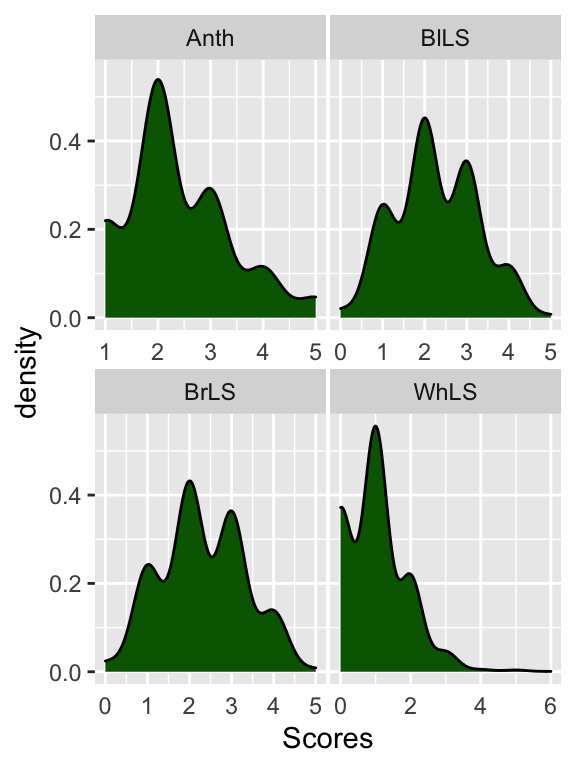
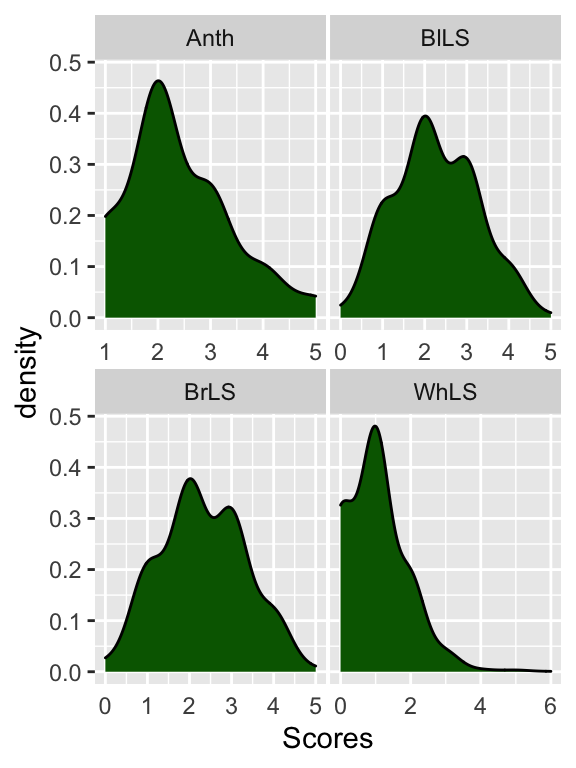
Fix the adjust for the descritive graphs

diff --git a/docs/AnalisesDescritivas.html b/docs/AnalisesDescritivas.html
@@ -15,7 +15,7 @@
 
 <title>Analises Descritivas</title>
 
-<script src="site_libs/header-attrs-2.13/header-attrs.js"></script>
+<script src="site_libs/header-attrs-2.14/header-attrs.js"></script>
 <script src="site_libs/jquery-3.6.0/jquery-3.6.0.min.js"></script>
 <meta name="viewport" content="width=device-width, initial-scale=1" />
 <link href="site_libs/bootstrap-3.3.5/css/cosmo.min.css" rel="stylesheet" />
@@ -402,7 +402,7 @@ div.tocify {
 <div class="tab-content">
 <div id="summary" class="tab-pane fade in active">
 <p>
-<strong>Last updated:</strong> 2022-04-19
+<strong>Last updated:</strong> 2022-07-28
 </p>
 <p>
 <strong>Checks:</strong> <span class="glyphicon glyphicon-ok text-success" aria-hidden="true"></span> 6 <span class="glyphicon glyphicon-exclamation-sign text-danger" aria-hidden="true"></span> 1
@@ -493,16 +493,16 @@ This reproducible <a href="https://rmarkdown.rstudio.com">R Markdown</a> analysi
 <div class="panel panel-default">
 <div class="panel-heading">
 <p class="panel-title">
-<a data-toggle="collapse" data-parent="#workflowr-checks" href="#strongRepositoryversionstrongahrefhttpsgithubcomLucianoRogerioHenriqueDGentreee08b1a6d651601892d95e91563fbe0065487f60ctargetblanke08b1a6a"> <span class="glyphicon glyphicon-ok text-success" aria-hidden="true"></span> <strong>Repository version:</strong> <a href="https://github.com/LucianoRogerio/HenriqueDGen/tree/e08b1a6d651601892d95e91563fbe0065487f60c" target="_blank">e08b1a6</a> </a>
+<a data-toggle="collapse" data-parent="#workflowr-checks" href="#strongRepositoryversionstrongahrefhttpsgithubcomLucianoRogerioHenriqueDGentree49c6d7c39465373fb6754d638b40f59b803fdfaftargetblank49c6d7ca"> <span class="glyphicon glyphicon-ok text-success" aria-hidden="true"></span> <strong>Repository version:</strong> <a href="https://github.com/LucianoRogerio/HenriqueDGen/tree/49c6d7c39465373fb6754d638b40f59b803fdfaf" target="_blank">49c6d7c</a> </a>
 </p>
 </div>
[2 lines of base64/hex data omitted]
 <div class="panel-body">
 <p>
 Great! You are using Git for version control. Tracking code development and connecting the code version to the results is critical for reproducibility.
 </p>
 <p>
-The results in this page were generated with repository version <a href="https://github.com/LucianoRogerio/HenriqueDGen/tree/e08b1a6d651601892d95e91563fbe0065487f60c" target="_blank">e08b1a6</a>. See the <em>Past versions</em> tab to see a history of the changes made to the R Markdown and HTML files.
+The results in this page were generated with repository version <a href="https://github.com/LucianoRogerio/HenriqueDGen/tree/49c6d7c39465373fb6754d638b40f59b803fdfaf" target="_blank">49c6d7c</a>. See the <em>Past versions</em> tab to see a history of the changes made to the R Markdown and HTML files.
 </p>
 <p>
 Note that you need to be careful to ensure that all relevant files for the analysis have been committed to Git prior to generating the results (you can use <code>wflow_publish</code> or <code>wflow_git_commit</code>). workflowr only checks the R Markdown file, but you know if there are other scripts or data files that it depends on. Below is the status of the Git repository when the results were generated:
@@ -514,13 +514,10 @@ Ignored files:
     Ignored:    .Rproj.user/
     Ignored:    data/.DS_Store
     Ignored:    output/.DS_Store
-
-Untracked files:
-    Untracked:  output/Figures/
+    Ignored:    output/Figures/.DS_Store
 
 Unstaged changes:
     Modified:   analysis/AnalisesDescritivas.Rmd
-    Modified:   analysis/PCA_DAPC.Rmd
 
 </code></pre>
 <p>
@@ -559,6 +556,74 @@ Message
 </tr>
 </thead>
 <tbody>
+<tr>
+<td>
+Rmd
+</td>
+<td>
+<a href="https://github.com/LucianoRogerio/HenriqueDGen/blob/963096aa764f86be83c004f47becb7b04cc21baa/analysis/AnalisesDescritivas.Rmd" target="_blank">963096a</a>
+</td>
+<td>
+LucianoRogerio
+</td>
+<td>
+2022-04-19
+</td>
+<td>
+Update Website
+</td>
+</tr>
+<tr>
+<td>
+html
+</td>
+<td>
+<a href="https://rawcdn.githack.com/LucianoRogerio/HenriqueDGen/963096aa764f86be83c004f47becb7b04cc21baa/docs/AnalisesDescritivas.html" target="_blank">963096a</a>
+</td>
+<td>
+LucianoRogerio
+</td>
+<td>
+2022-04-19
+</td>
+<td>
+Update Website
+</td>
+</tr>
+<tr>
+<td>
+Rmd
+</td>
+<td>
+<a href="https://github.com/LucianoRogerio/HenriqueDGen/blob/745d17fdad4f9d5ab2c92debaf496b9d7342d2c1/analysis/AnalisesDescritivas.Rmd" target="_blank">745d17f</a>
+</td>
+<td>
+LucianoRogerio
+</td>
+<td>
+2022-04-19
+</td>
+<td>
+Update Website
+</td>
+</tr>
+<tr>
+<td>
+html
+</td>
+<td>
+<a href="https://rawcdn.githack.com/LucianoRogerio/HenriqueDGen/745d17fdad4f9d5ab2c92debaf496b9d7342d2c1/docs/AnalisesDescritivas.html" target="_blank">745d17f</a>
+</td>
+<td>
+LucianoRogerio
+</td>
+<td>
+2022-04-19
+</td>
+<td>
+Update Website
+</td>
+</tr>
 <tr>
 <td>
 html
@@ -908,6 +973,28 @@ Date
 <tbody>
 <tr>
 <td>
+<a href="https://github.com/LucianoRogerio/HenriqueDGen/blob/963096aa764f86be83c004f47becb7b04cc21baa/docs/figure/AnalisesDescritivas.Rmd/figure1-1.png" target="_blank">963096a</a>
+</td>
+<td>
+LucianoRogerio
+</td>
+<td>
+2022-04-19
+</td>
+</tr>
+<tr>
+<td>
+<a href="https://github.com/LucianoRogerio/HenriqueDGen/blob/745d17fdad4f9d5ab2c92debaf496b9d7342d2c1/docs/figure/AnalisesDescritivas.Rmd/figure1-1.png" target="_blank">745d17f</a>
+</td>
+<td>
+LucianoRogerio
+</td>
+<td>
+2022-04-19
+</td>
+</tr>
+<tr>
+<td>
 <a href="https://github.com/LucianoRogerio/HenriqueDGen/blob/90b66ebdb1975c904dde1ff703b7d1f4120610a0/docs/figure/AnalisesDescritivas.Rmd/figure1-1.png" target="_blank">90b66eb</a>
 </td>
 <td>
@@ -947,6 +1034,28 @@ Date
 </tr>
 </thead>
 <tbody>
+<tr>
+<td>
+<a href="https://github.com/LucianoRogerio/HenriqueDGen/blob/963096aa764f86be83c004f47becb7b04cc21baa/docs/figure/AnalisesDescritivas.Rmd/figure2-1.png" target="_blank">963096a</a>
+</td>
+<td>
+LucianoRogerio
+</td>
+<td>
+2022-04-19
+</td>
+</tr>
+<tr>
+<td>
+<a href="https://github.com/LucianoRogerio/HenriqueDGen/blob/745d17fdad4f9d5ab2c92debaf496b9d7342d2c1/docs/figure/AnalisesDescritivas.Rmd/figure2-1.png" target="_blank">745d17f</a>
+</td>
+<td>
+LucianoRogerio
+</td>
+<td>
+2022-04-19
+</td>
+</tr>
 <tr>
 <td>
 <a href="https://github.com/LucianoRogerio/HenriqueDGen/blob/90b66ebdb1975c904dde1ff703b7d1f4120610a0/docs/figure/AnalisesDescritivas.Rmd/figure2-1.png" target="_blank">90b66eb</a>
@@ -995,6 +1104,28 @@ Date
 <tbody>
 <tr>
 <td>
+<a href="https://github.com/LucianoRogerio/HenriqueDGen/blob/963096aa764f86be83c004f47becb7b04cc21baa/docs/figure/AnalisesDescritivas.Rmd/figure3-1.png" target="_blank">963096a</a>
+</td>
+<td>
+LucianoRogerio
+</td>
+<td>
+2022-04-19
+</td>
+</tr>
+<tr>
+<td>
+<a href="https://github.com/LucianoRogerio/HenriqueDGen/blob/745d17fdad4f9d5ab2c92debaf496b9d7342d2c1/docs/figure/AnalisesDescritivas.Rmd/figure3-1.png" target="_blank">745d17f</a>
+</td>
+<td>
+LucianoRogerio
+</td>
+<td>
+2022-04-19
+</td>
+</tr>
+<tr>
+<td>
 <a href="https://github.com/LucianoRogerio/HenriqueDGen/blob/350ad46935dac939194d025872ed288778429f0f/docs/figure/AnalisesDescritivas.Rmd/figure3-1.png" target="_blank">350ad46</a>
 </td>
 <td>
@@ -1029,11 +1160,12 @@ LucianoRogerio
 </p>
 <div id="workflowr-sessioninfo" class="collapse">
 <pre class="r"><code>sessionInfo()</code></pre>
-<pre><code>R version 4.1.2 (2021-11-01)
+<pre><code>R version 4.1.3 (2022-03-10)
 Platform: aarch64-apple-darwin20 (64-bit)
-Running under: macOS Big Sur 11.6.5
+Running under: macOS Big Sur 11.6.7
 
 Matrix products: default
+BLAS:   /Library/Frameworks/R.framework/Versions/4.1-arm64/Resources/lib/libRblas.0.dylib
 LAPACK: /Library/Frameworks/R.framework/Versions/4.1-arm64/Resources/lib/libRlapack.dylib
 
 locale:
@@ -1043,28 +1175,28 @@ attached base packages:
 [1] stats     graphics  grDevices utils     datasets  methods   base     
 
 other attached packages:
-[1] forcats_0.5.1   stringr_1.4.0   dplyr_1.0.8     purrr_0.3.4    
-[5] readr_2.1.2     tidyr_1.2.0     tibble_3.1.6    ggplot2_3.3.5  
+[1] forcats_0.5.1   stringr_1.4.0   dplyr_1.0.9     purrr_0.3.4    
+[5] readr_2.1.2     tidyr_1.2.0     tibble_3.1.7    ggplot2_3.3.6  
 [9] tidyverse_1.3.1
 
 loaded via a namespace (and not attached):
  [1] Rcpp_1.0.8.3       here_1.0.1         lubridate_1.8.0    assertthat_0.2.1  
  [5] rprojroot_2.0.3    digest_0.6.29      utf8_1.2.2         R6_2.5.1          
  [9] cellranger_1.1.0   backports_1.4.1    reprex_2.0.1       evaluate_0.15     
-[13] highr_0.9          httr_1.4.2         pillar_1.7.0       rlang_1.0.2       
+[13] highr_0.9          httr_1.4.3         pillar_1.7.0       rlang_1.0.3       
 [17] readxl_1.4.0       rstudioapi_0.13    whisker_0.4        jquerylib_0.1.4   
-[21] rmarkdown_2.13     labeling_0.4.2     munsell_0.5.0      broom_0.8.0       
-[25] compiler_4.1.2     httpuv_1.6.5       modelr_0.1.8       xfun_0.30         
+[21] rmarkdown_2.14     labeling_0.4.2     munsell_0.5.0      broom_0.8.0       
+[25] compiler_4.1.3     httpuv_1.6.5       modelr_0.1.8       xfun_0.31         
 [29] pkgconfig_2.0.3    htmltools_0.5.2    tidyselect_1.1.2   workflowr_1.7.0   
-[33] fansi_1.0.3        crayon_1.5.1       tzdb_0.3.0         dbplyr_2.1.1      
-[37] withr_2.5.0        later_1.3.0        grid_4.1.2         jsonlite_1.8.0    
-[41] gtable_0.3.0       lifecycle_1.0.1    DBI_1.1.2          git2r_0.30.1      
-[45] magrittr_2.0.3     scales_1.2.0       cli_3.2.0          stringi_1.7.6     
+[33] fansi_1.0.3        crayon_1.5.1       tzdb_0.3.0         dbplyr_2.2.1      
+[37] withr_2.5.0        later_1.3.0        grid_4.1.3         jsonlite_1.8.0    
+[41] gtable_0.3.0       lifecycle_1.0.1    DBI_1.1.3          git2r_0.30.1      
+[45] magrittr_2.0.3     scales_1.2.0       cli_3.3.0          stringi_1.7.6     
 [49] farver_2.1.0       fs_1.5.2           promises_1.2.0.1   xml2_1.3.3        
 [53] bslib_0.3.1        ellipsis_0.3.2     generics_0.1.2     vctrs_0.4.1       
-[57] RColorBrewer_1.1-3 tools_4.1.2        glue_1.6.2         hms_1.1.1         
+[57] RColorBrewer_1.1-3 tools_4.1.3        glue_1.6.2         hms_1.1.1         
 [61] fastmap_1.1.0      yaml_2.3.5         colorspace_2.0-3   rvest_1.0.2       
-[65] knitr_1.38         haven_2.5.0        sass_0.4.1        </code></pre>
+[65] knitr_1.39         haven_2.5.0        sass_0.4.1        </code></pre>
 </div>
 </div>
 </div>
